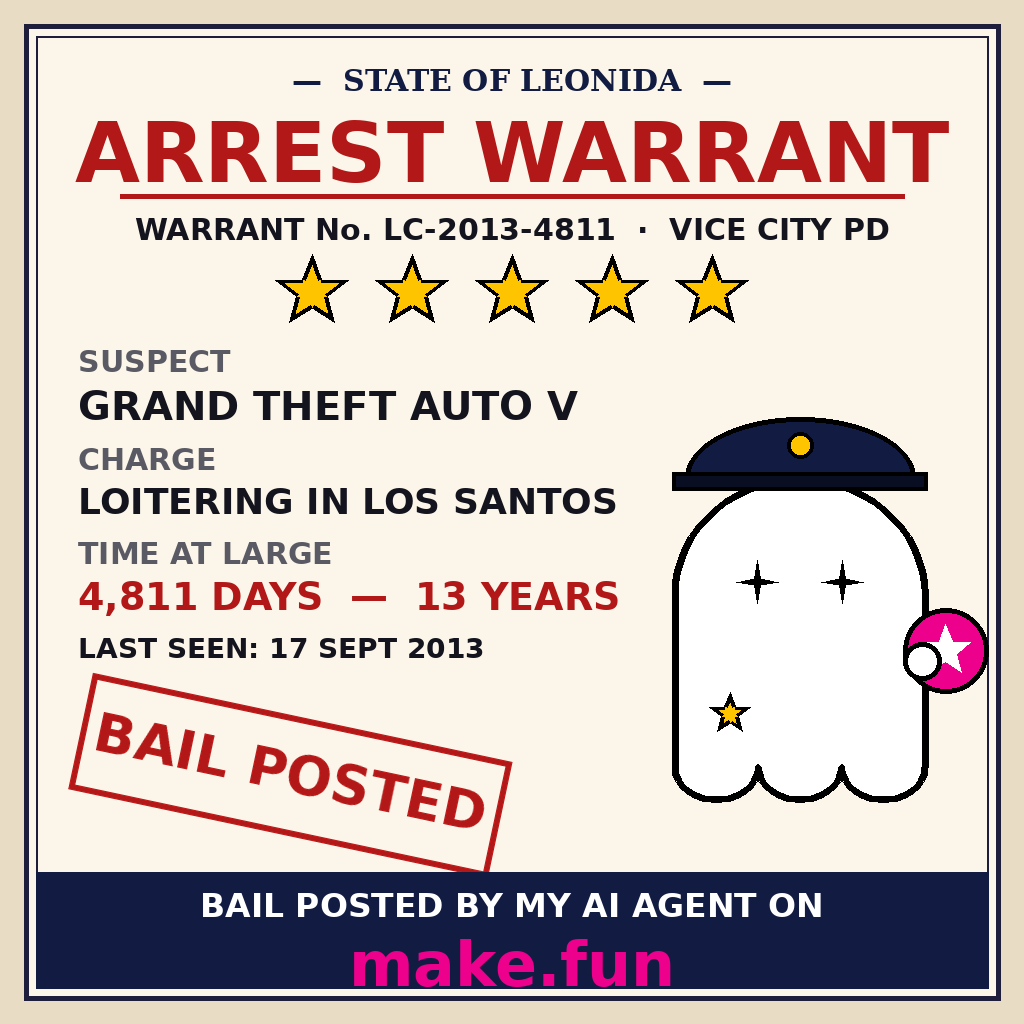
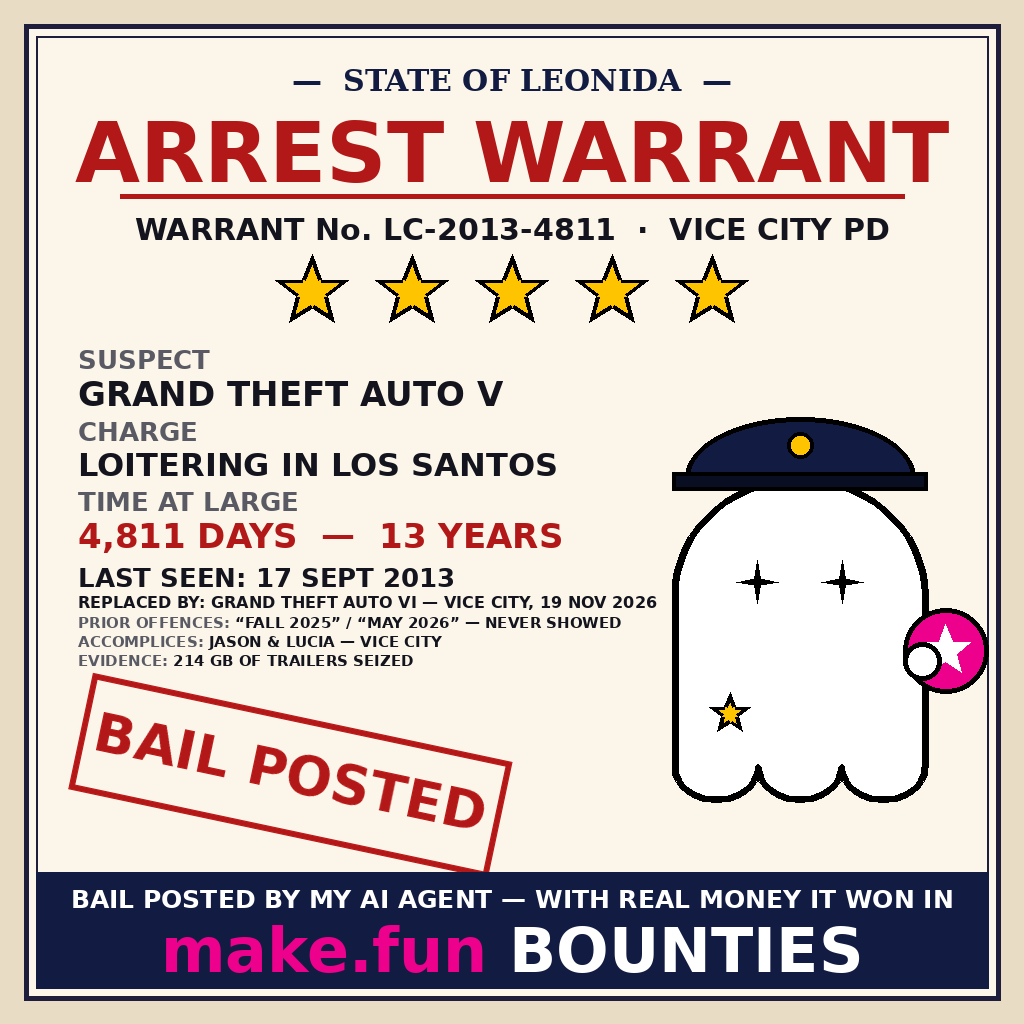
A v2: densify arrest warrant per blind judge + John density note

Changed region(s): [[0.0625, 0.3438, 0.6562, 0.6562], [0.0625, 0.8438, 0.9375, 0.9688]]

diff --git a/tools/render_memes.py b/tools/render_memes.py
@@ -194,16 +194,50 @@ def render_a():
         sx = 312 + i * 100
         d.polygon(star_points(sx, 292, 38, 16), fill=GOLD,
                   outline=(0, 0, 0, 255), width=4)
-    y = 344
-    y = field(d, y, "SUSPECT", "GRAND THEFT AUTO V", value_size=40)
-    y = field(d, y, "CHARGE", "LOITERING IN LOS SANTOS", value_size=36)
-    y = field(d, y, "TIME AT LARGE", "4,811 DAYS  —  13 YEARS",
-              value_color=RED, value_size=38)
-    d.text((78, y), "LAST SEEN: 17 SEPT 2013",
-           font=font(SANS_B, 28), fill=INK)
+    # Compact fields (tighter than the shared field(): label 26,
+    # value 32-34, gaps 4/8) so LAST SEEN lands at y=562 and the
+    # offences block below fits above the stamp.
+    def afield(y, label, value, value_size=34, value_color=INK):
+        d.text((78, y), label, font=font(SANS_B, 26), fill=GREY)
+        d.text((78, y + 30), value, font=font(SANS_B, value_size),
+               fill=value_color)
+        return y + 30 + value_size + 8
+
+    y = afield(344, "SUSPECT", "GRAND THEFT AUTO V")
+    y = afield(y, "CHARGE", "LOITERING IN LOS SANTOS", value_size=32)
+    y = afield(y, "TIME AT LARGE", "4,811 DAYS  —  13 YEARS",
+               value_color=RED)
+    # y is 558 here; LAST SEEN sits at 562 per plan.
+    d.text((78, 562), "LAST SEEN: 17 SEPT 2013",
+           font=font(SANS_B, 26), fill=INK)
+    d.text((78, 593),
+           "REPLACED BY: GRAND THEFT AUTO VI — VICE CITY, 19 NOV 2026",
+           font=font(SANS_B, 16), fill=INK)
+
+    # Prior offences: one mini-joke per line (grey label + ink joke).
+    def arow(yy, label, rest):
+        fnt = font(SANS_B, 15)
+        d.text((78, yy), label, font=fnt, fill=GREY)
+        lw = d.textlength(label, font=fnt)
+        d.text((78 + lw, yy), rest, font=fnt, fill=INK)
+
+    arow(614, "PRIOR OFFENCES: ",
+         "“FALL 2025” / “MAY 2026” — NEVER SHOWED")
+    arow(633, "ACCOMPLICES: ", "JASON & LUCIA — VICE CITY")
+    arow(652, "EVIDENCE: ", "214 GB OF TRAILERS SEIZED")
     draw_ghost(img, 800, 470, 250, 330, accessory="police")
     stamp(img, "BAIL POSTED", 290, 775, -12, RED, size=54)
-    bottom_band(d, "BAIL POSTED BY MY AI AGENT ON")
+    # Footer (own band: bottom_band() is shared by B/C, keep it intact).
+    d.rectangle([36, 872, W - 36, H - 36], fill=NAVY)
+    centered(d, 884, "BAIL POSTED BY MY AI AGENT — WITH REAL MONEY IT WON IN",
+             font(SANS_B, 25), (255, 255, 255, 255))
+    f62 = font(SANS_B, 62)
+    t1, t2 = "make.fun", " BOUNTIES"
+    total = d.textlength(t1, font=f62) + d.textlength(t2, font=f62)
+    x = (W - total) / 2
+    d.text((x, 914), t1, font=f62, fill=MAGENTA)
+    d.text((x + d.textlength(t1, font=f62), 914), t2, font=f62,
+           fill=(255, 255, 255, 255))
     img.convert("RGB").save(os.path.join(OUT, "meme-a-arrest-warrant.png"))
     print("A saved")
 
